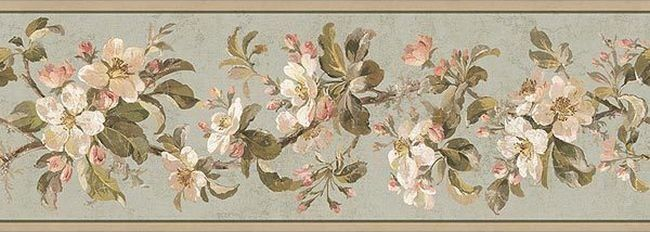
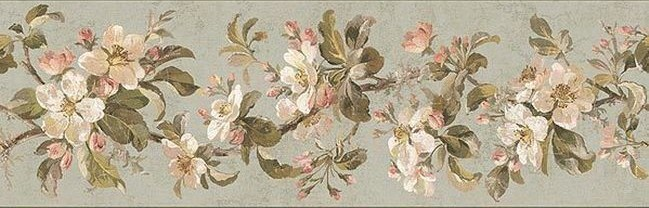
pic

diff --git a/index.html b/index.html
@@ -4,7 +4,7 @@
         <meta charset="utf-8">
         <meta name="viewport" content="width=device-width, initial-scale=1">
         <title>About Me</title>
-        <img src="images/my-image.jpg" alt="flowers in a banner" width="1200" height="400">
+        <img src="images/my-image.jpg" alt="flowers in a banner" width="1400" height="200">
         <style>
             body {background-color: rgb(147, 78, 89);}
             h1 {color:rgb(243, 192, 199);}
